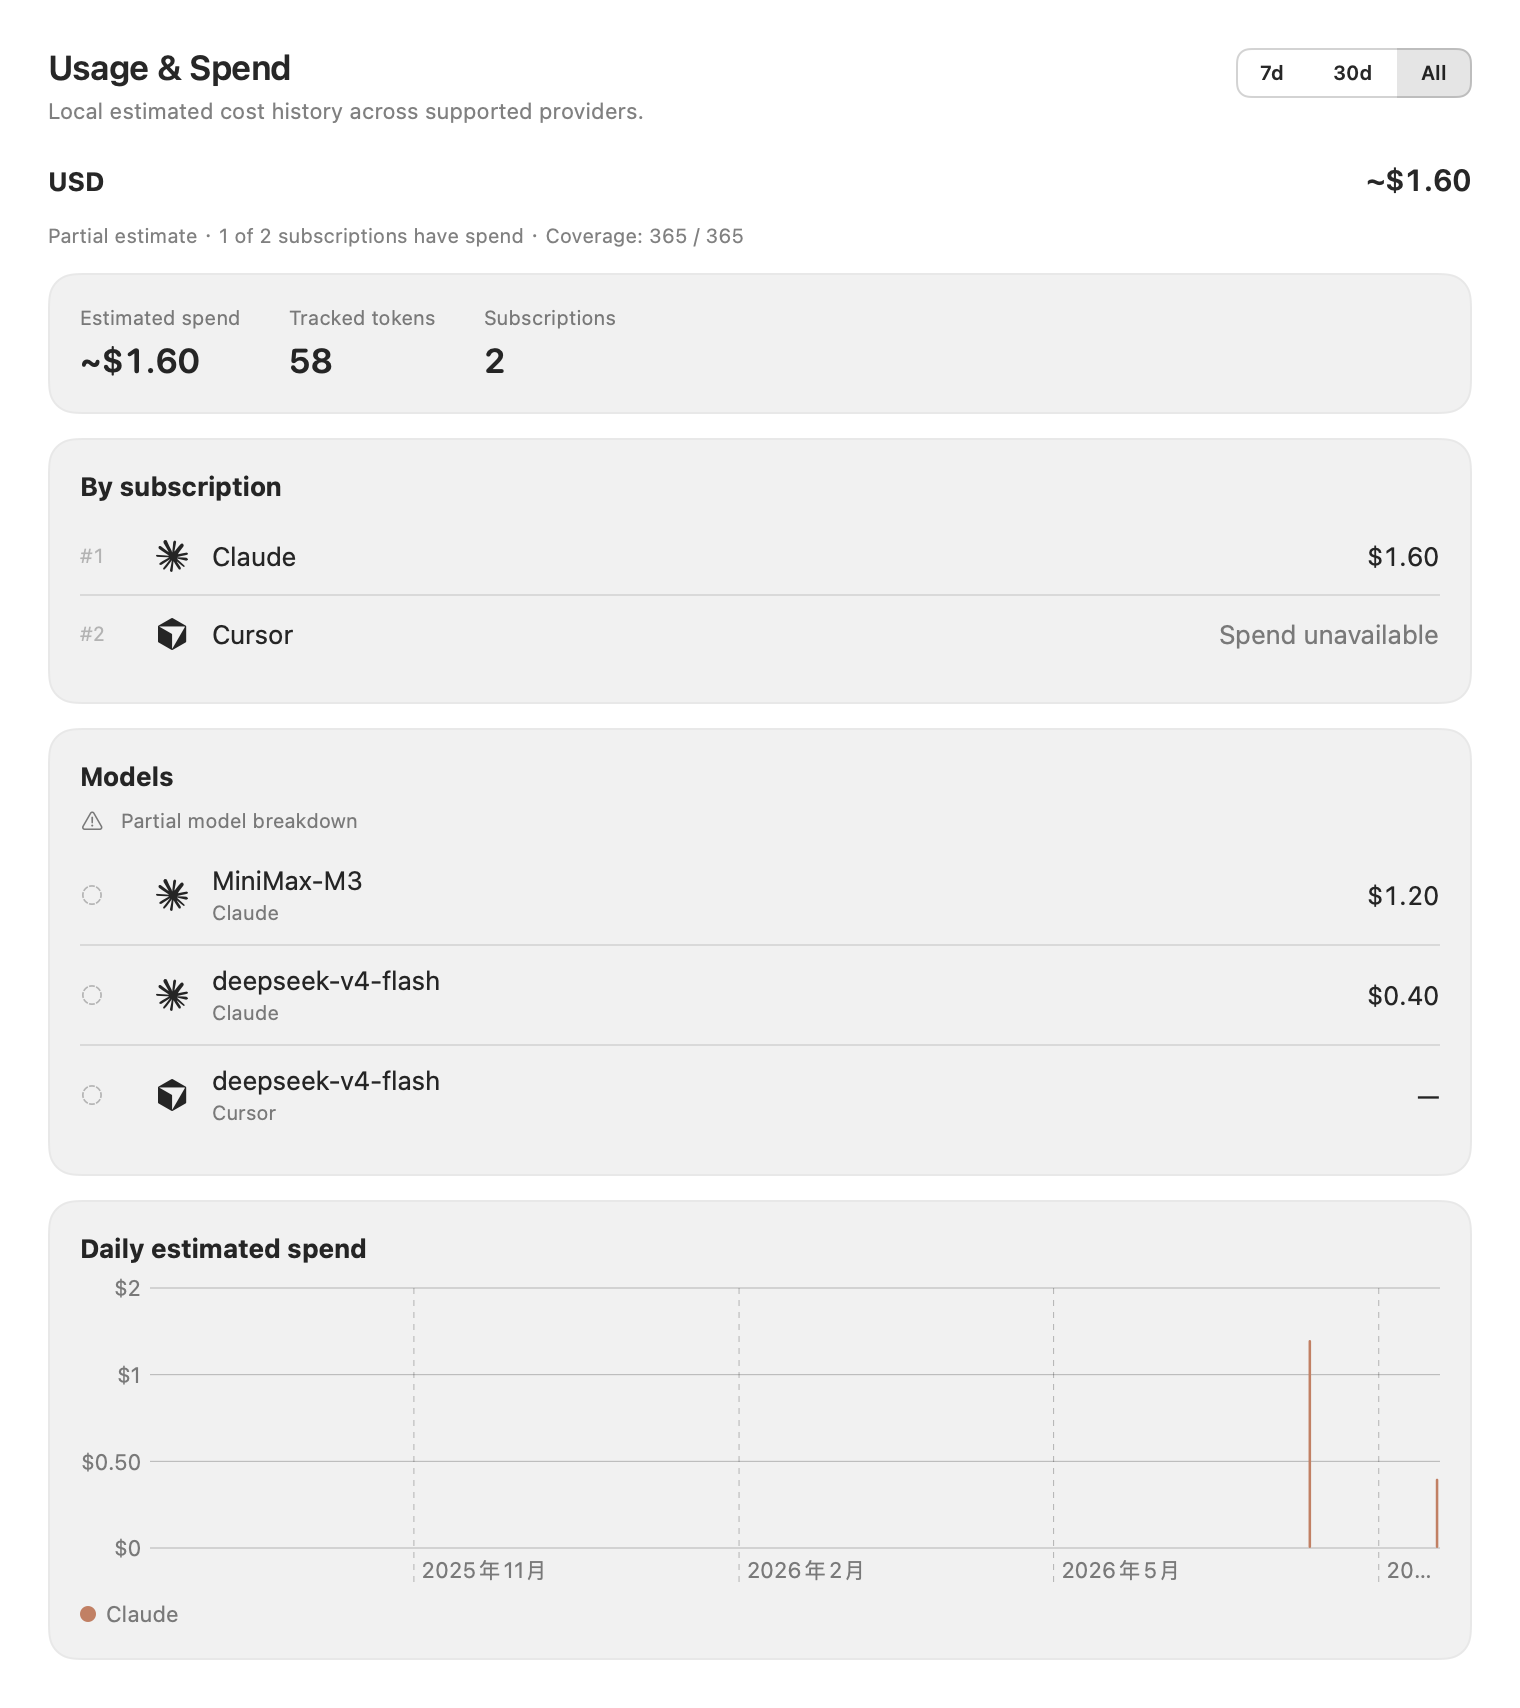
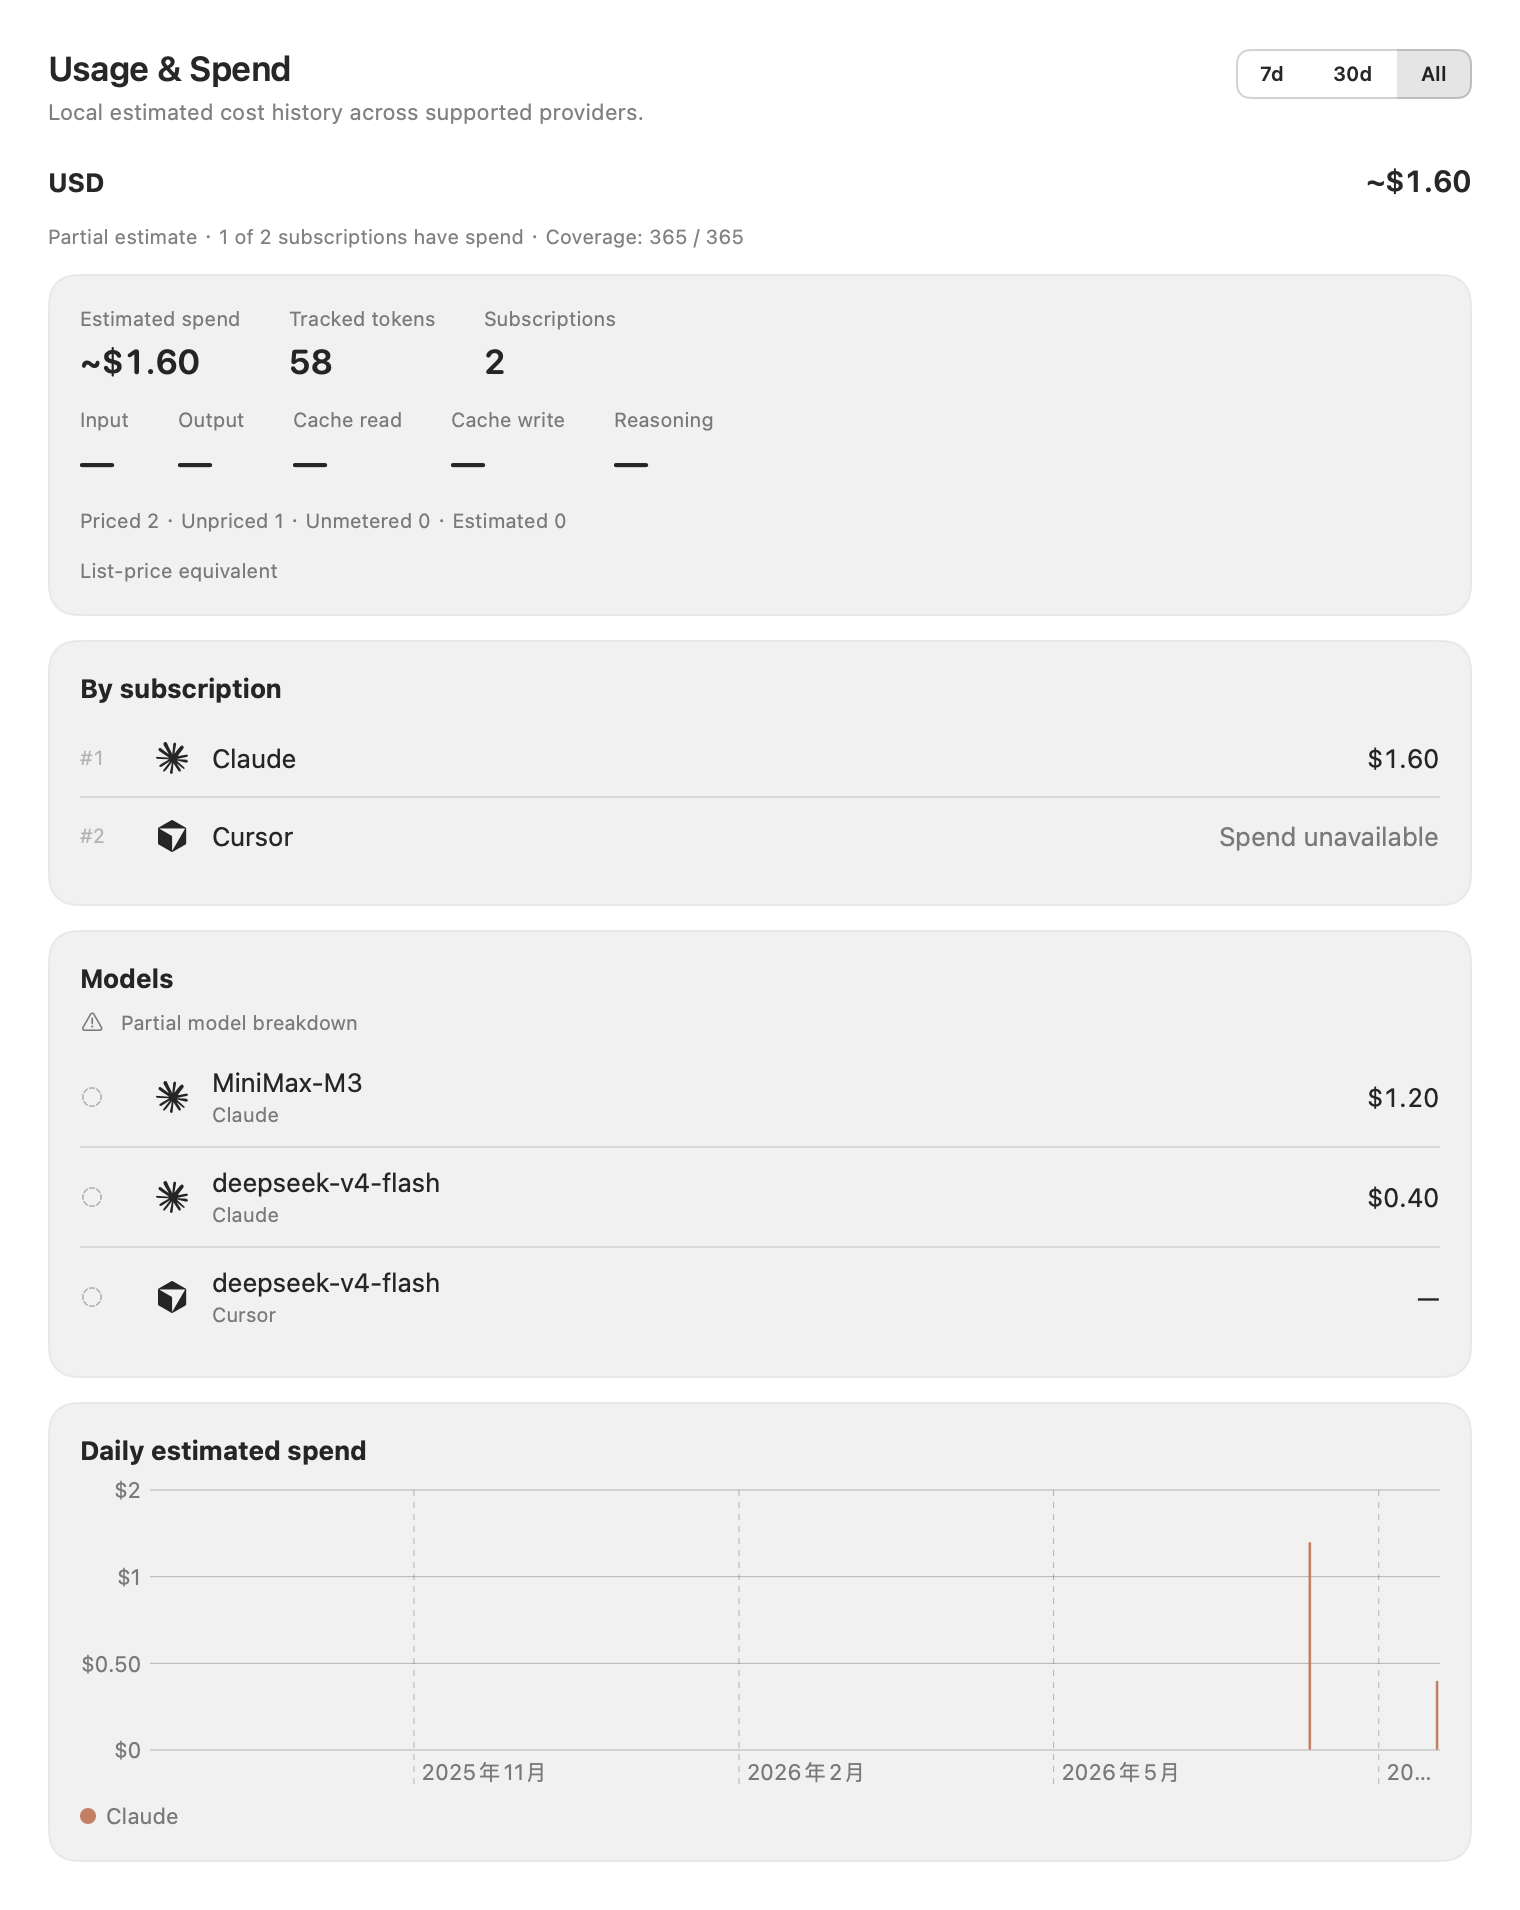
Union spend dashboard token activity across partial provider coverage (#3042)
* Union spend dashboard token activity across partial provider coverage.

Sum tokens from sources that actually scanned a day instead of requiring every enabled provider to agree before the heatmap can draw.

* Update token activity heatmap tests for union coverage.

Expect per-day unions across mismatched provider windows and add a partial-coverage regression case.

* Fix preferCountWhere lint in token activity union test.

* Preserve scanned provider gaps in token activity and fix Gatekeeper anchor

---------

diff --git a/Tests/CodexBarTests/SpendActivityHeatmapTests.swift b/Tests/CodexBarTests/SpendActivityHeatmapTests.swift
@@ -67,7 +67,7 @@ struct SpendActivityHeatmapTests {
     }
 
     @Test
-    func `mixed provider activity marks days outside common coverage unavailable`() throws {
+    func `mixed provider activity unions available sources per day`() throws {
         let now = try #require(Self.calendar.date(from: DateComponents(year: 2026, month: 7, day: 16)))
         let oldDay = "2025-08-01"
         let annual = Self.snapshot(
@@ -94,9 +94,60 @@ struct SpendActivityHeatmapTests {
 
         let oldDate = try #require(Self.calendar.date(from: DateComponents(year: 2025, month: 8, day: 1)))
         #expect(model.tokenActivity.count == SpendDashboardModel.tokenActivityDayCount)
-        #expect(model.tokenActivity.first { $0.day == oldDate }?.totalTokens == nil)
+        #expect(model.tokenActivity.first { $0.day == oldDate }?.totalTokens == 40)
         #expect(model.tokenActivity.first { $0.day == now }?.totalTokens == 70)
         #expect(model.groups.first?.dailyPoints.allSatisfy { $0.day == now } == true)
+    }
+
+    @Test
+    func `token activity unions partial provider coverage instead of requiring every source`() throws {
+        let now = try #require(Self.calendar.date(from: DateComponents(year: 2026, month: 7, day: 16)))
+        let recent = Self.snapshot(
+            entries: [Self.entry(day: "2026-07-16", cost: 1, tokens: 40)],
+            historyDays: 30,
+            last30DaysTokens: 40)
+        let unavailable = Self.snapshot(
+            entries: [],
+            historyDays: 30,
+            last30DaysTokens: nil,
+            historyCoverageIsEstablished: false)
+        let model = SpendDashboardModel.build(
+            inputs: [
+                .init(id: "recent", provider: .claude, displayName: "Claude", snapshot: recent),
+                .init(id: "missing", provider: .openai, displayName: "OpenAI", snapshot: unavailable),
+            ],
+            requestedDays: 30,
+            now: now,
+            calendar: Self.calendar)
+
+        let coveredDays = model.tokenActivity.count(where: { $0.totalTokens != nil })
+        #expect(coveredDays > 0)
+        #expect(model.tokenActivity.first { $0.day == now }?.totalTokens == 40)
+    }
+
+    @Test
+    func `scanned provider with unresolved day preserves gap even if other providers have tokens`() throws {
+        let now = try #require(Self.calendar.date(from: DateComponents(year: 2026, month: 7, day: 16)))
+        let valid = Self.snapshot(
+            entries: [Self.entry(day: "2026-07-16", cost: 1, tokens: 40)],
+            historyDays: 30,
+            last30DaysTokens: 40)
+        let scannedWithInvalidDay = Self.snapshot(
+            entries: [Self.entry(day: "2026-07-16", cost: 1, tokens: -5)],
+            historyDays: 30,
+            last30DaysTokens: 10)
+        let model = SpendDashboardModel.build(
+            inputs: [
+                .init(id: "valid", provider: .claude, displayName: "Claude", snapshot: valid),
+                .init(id: "invalid", provider: .openai, displayName: "OpenAI", snapshot: scannedWithInvalidDay),
+            ],
+            requestedDays: 30,
+            now: now,
+            calendar: Self.calendar)
+
+        let point = model.tokenActivity.first { $0.day == now }
+        #expect(point?.totalTokens == nil)
+        #expect(point?.isScanned == true)
     }
 
     @Test

diff --git a/Sources/CodexBar/SpendDashboardModel.swift b/Sources/CodexBar/SpendDashboardModel.swift
@@ -855,19 +855,25 @@ struct SpendDashboardModel: Equatable, Sendable {
                 return nil
             }
             var total = 0
+            var scannedContributors = 0
+            var hasUnresolvedScannedProvider = false
             for summary in summaries {
+                guard summary.scanned(day) else { continue }
+                scannedContributors += 1
                 guard let tokens = summary.tokens(on: day) else {
-                    // Every source must have scanned the day before an unknown counts as a real
-                    // gap. If any source never reached it, this is the edge of a scan window.
-                    return TokenActivityPoint(
-                        day: day,
-                        totalTokens: nil,
-                        isScanned: summaries.allSatisfy { $0.scanned(day) })
+                    hasUnresolvedScannedProvider = true
+                    continue
                 }
                 let addition = total.addingReportingOverflow(tokens)
                 total = addition.overflow ? Int.max : addition.partialValue
             }
-            return TokenActivityPoint(day: day, totalTokens: total)
+            guard scannedContributors > 0 else {
+                return TokenActivityPoint(day: day, totalTokens: nil, isScanned: false)
+            }
+            if hasUnresolvedScannedProvider {
+                return TokenActivityPoint(day: day, totalTokens: nil, isScanned: true)
+            }
+            return TokenActivityPoint(day: day, totalTokens: total, isScanned: true)
         }
     }
 

diff --git a/Tests/CodexBarTests/ProviderArchitectureGatekeeperTests.swift b/Tests/CodexBarTests/ProviderArchitectureGatekeeperTests.swift
@@ -2362,7 +2362,7 @@ struct ProviderArchitectureGatekeeperTests {
             reason: "This exact shared construct dispatches a provider-owned capability at the generic integration boundary."),
         AllowedProviderConstruct(
             path: "Sources/CodexBar/SpendDashboardModel.swift",
-            line: 1031,
+            line: 1037,
             anchor: "guard provider == .mistral else { return displayCalendar }",
             expectedProviderIDs: ["mistral"],
             expectedReferenceCount: 1,
